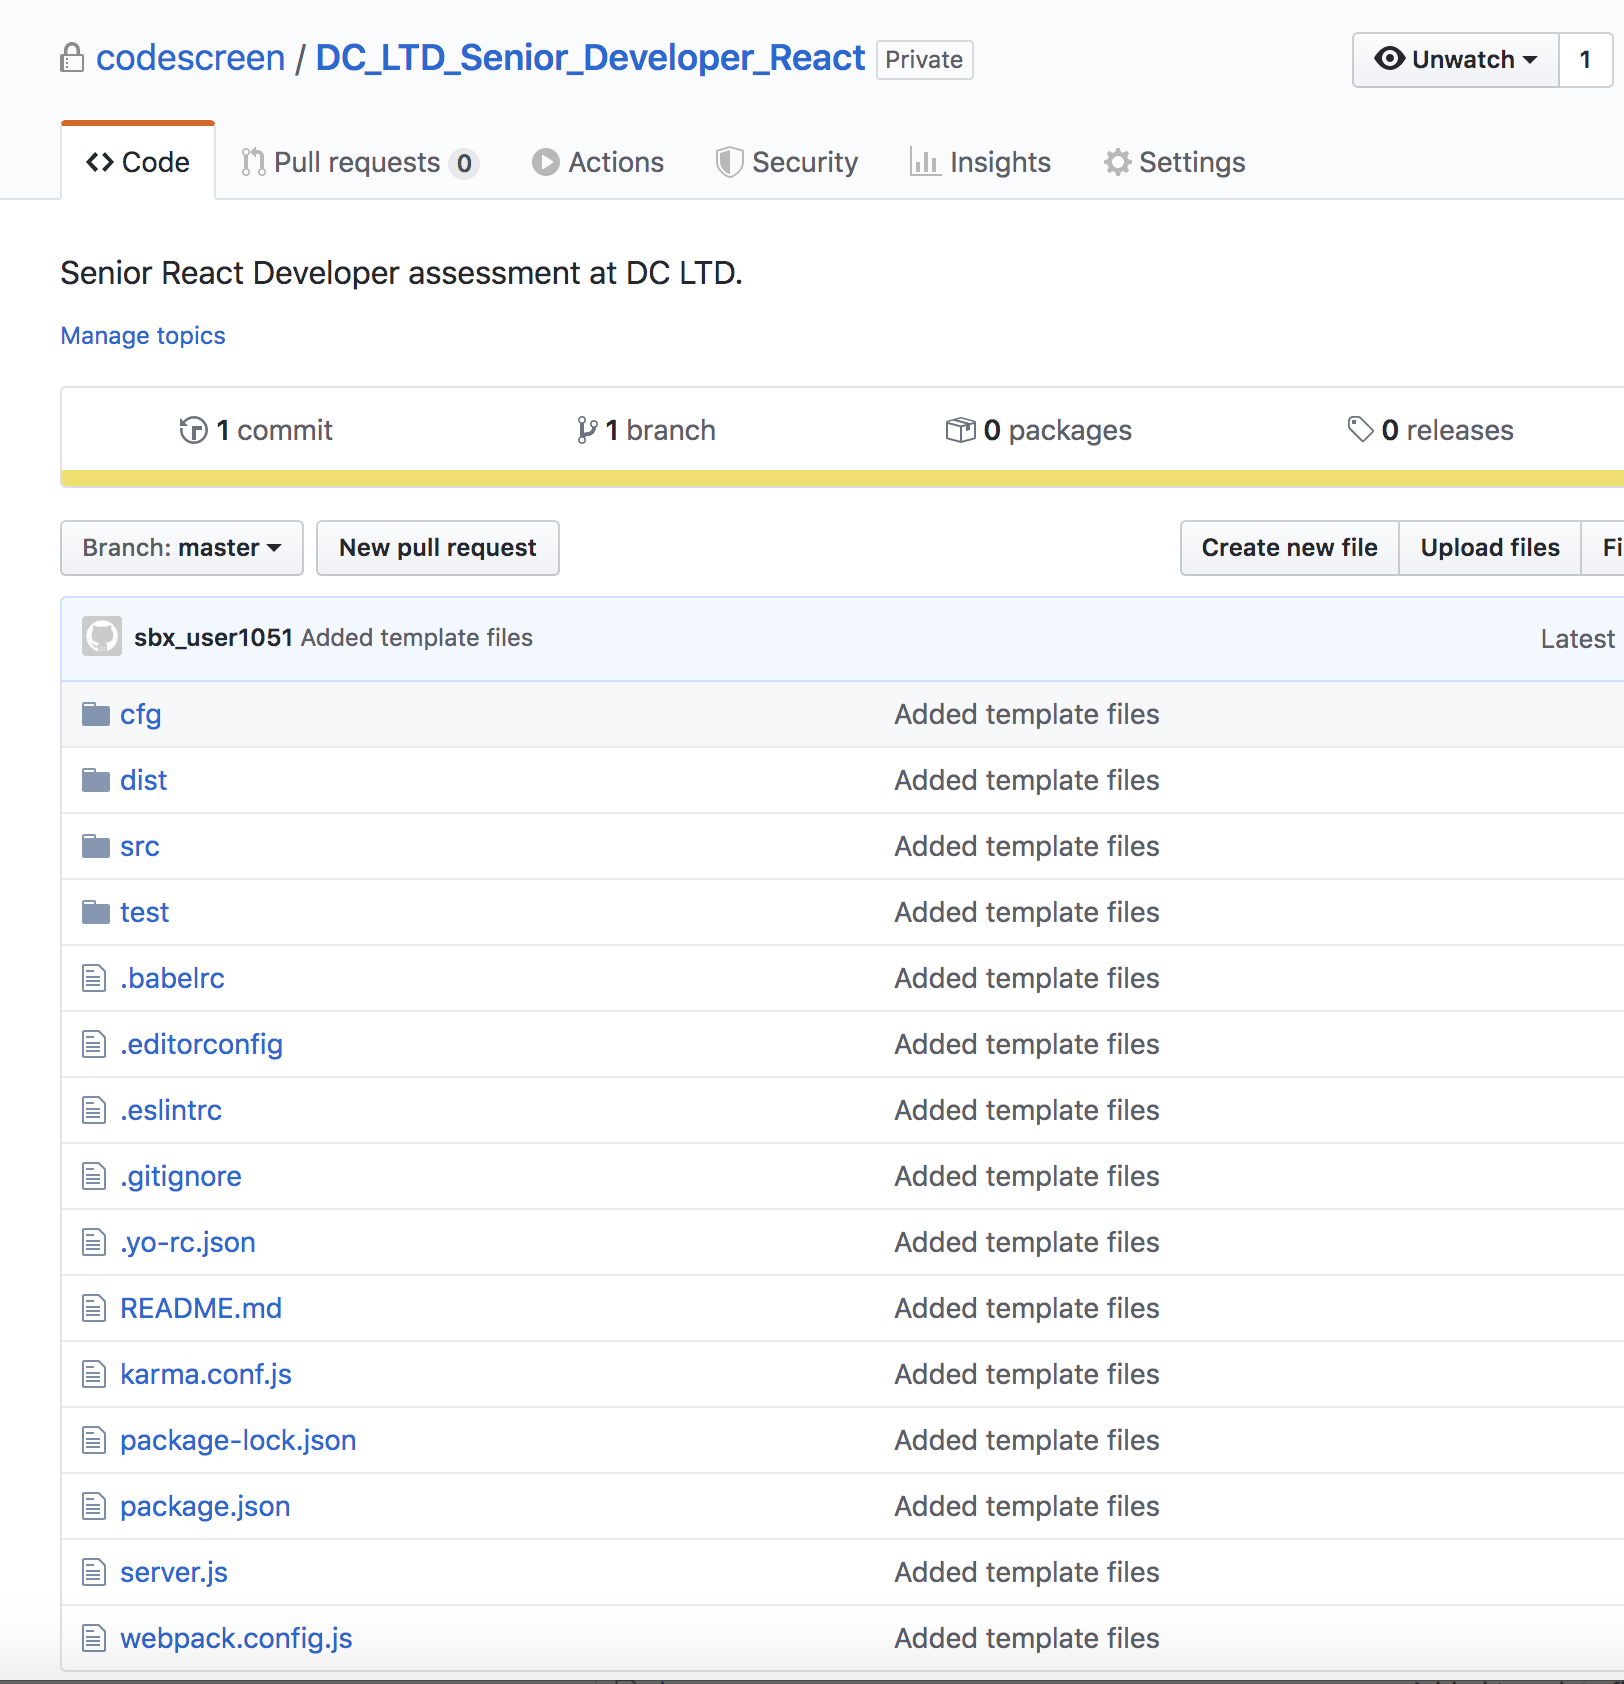
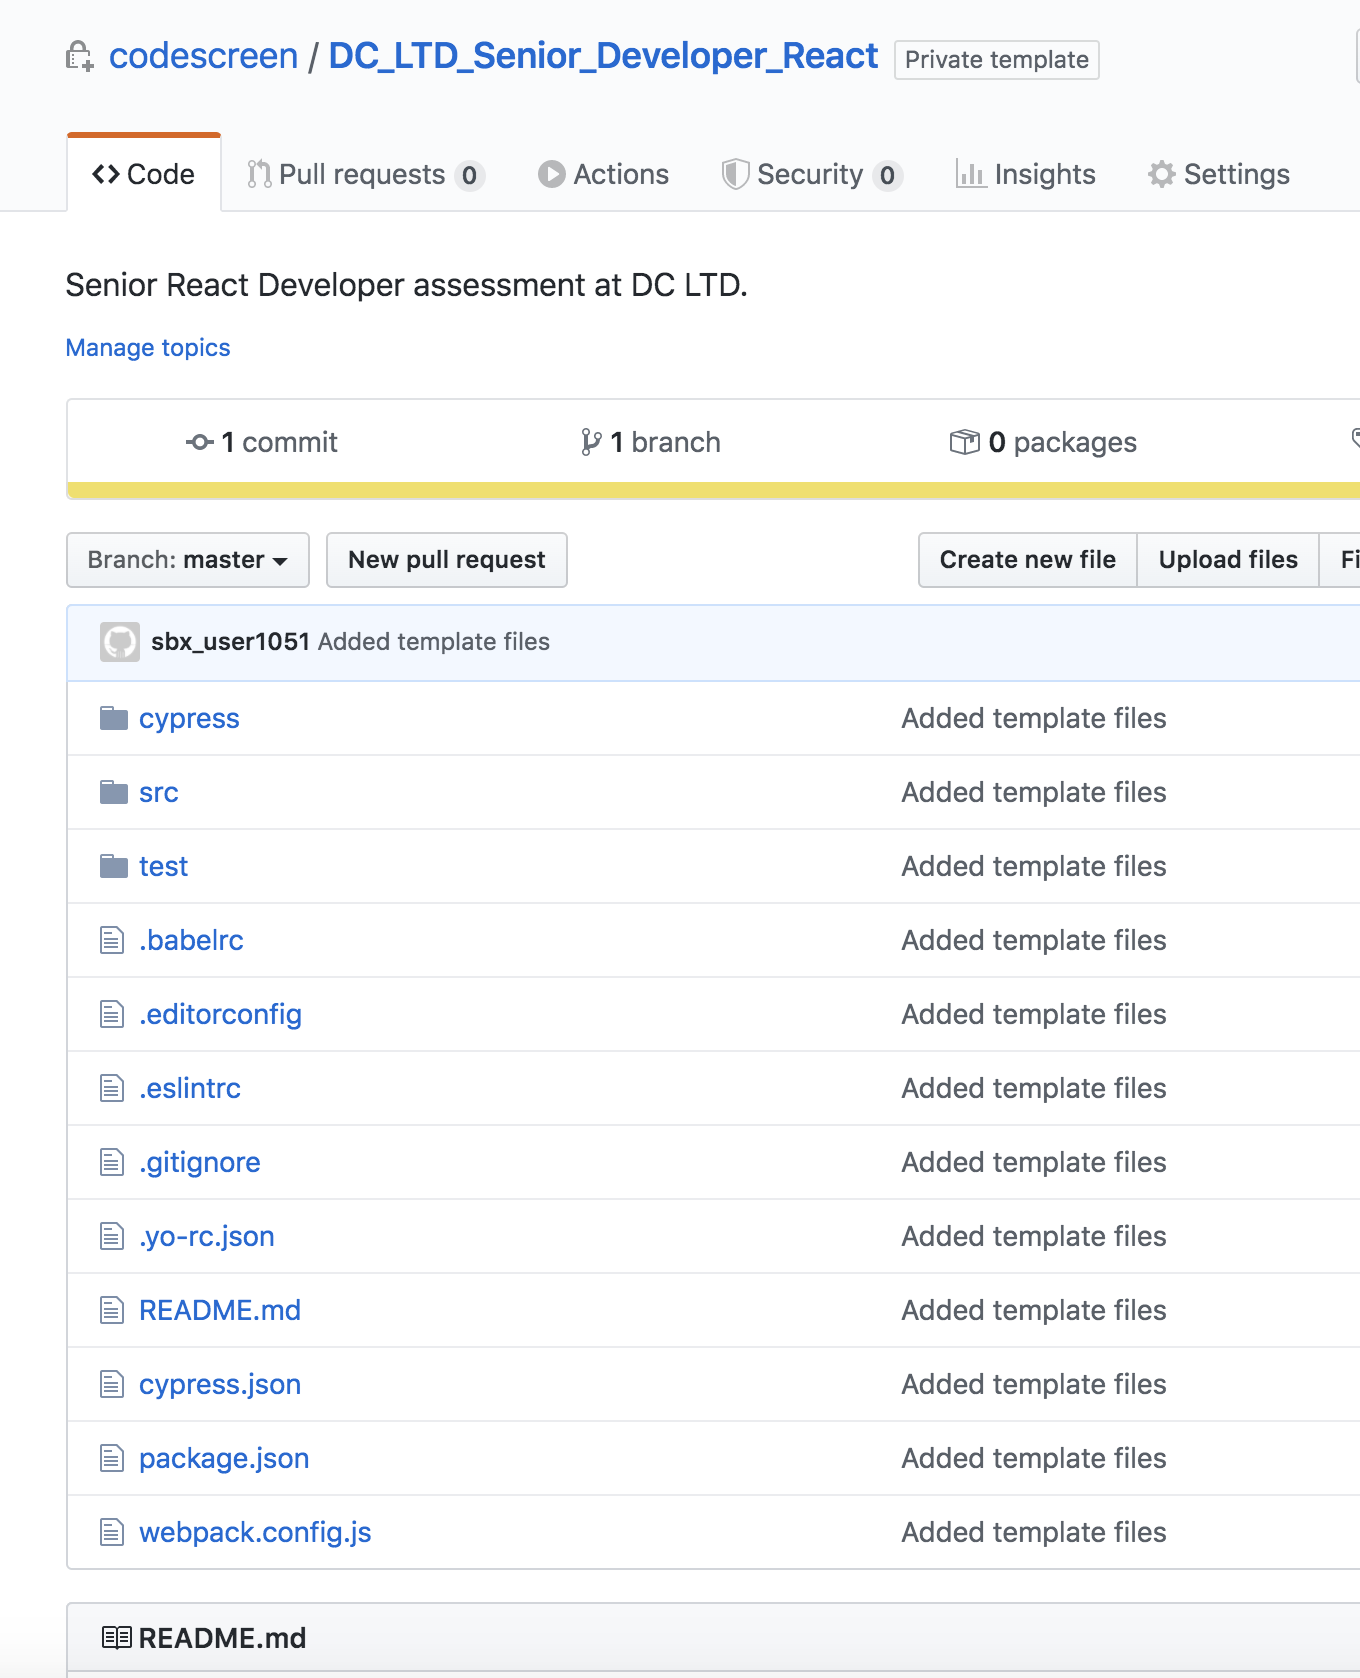
Added Cypress to React docs

diff --git a/docs/react.md b/docs/react.md
@@ -20,11 +20,12 @@ You can then update this repository with details of your React assessment and st
 ### Automated test-suite setup
 If you would like to add tests that are automatically run by CodeScreen against each candidate's solution to your assessment, you can add these as test files that end with `.test.js`.
 
-All unit tests files must use the [`Jest`](https://jestjs.io/) test framework.
+All unit tests files must use the [`Jest`](https://jestjs.io/) test framework, and all end-to-end tests must use the [`Cypress`](https://www.cypress.io/) E2E test framework.
 
 All unit test filenames must end with `.test.js` and unit test files with filenames that end with `.hidden.test.js` will not be visible to the candidate.
+All end-to-end test filenames must end with `.spec.js` and end-to-end test files with filenames that end with `.hidden.spec.js` will not be visible to the candidate.
 
-The `package.json` file may only be changed if you want to add third-party libraries to your test. All the current versions of the dependencies in `package.json` and `package-lock.json` must not be changed. 
+The `package.json` file may be updated to add any third-party libraries required for your test.
 
 ### Examples
 
